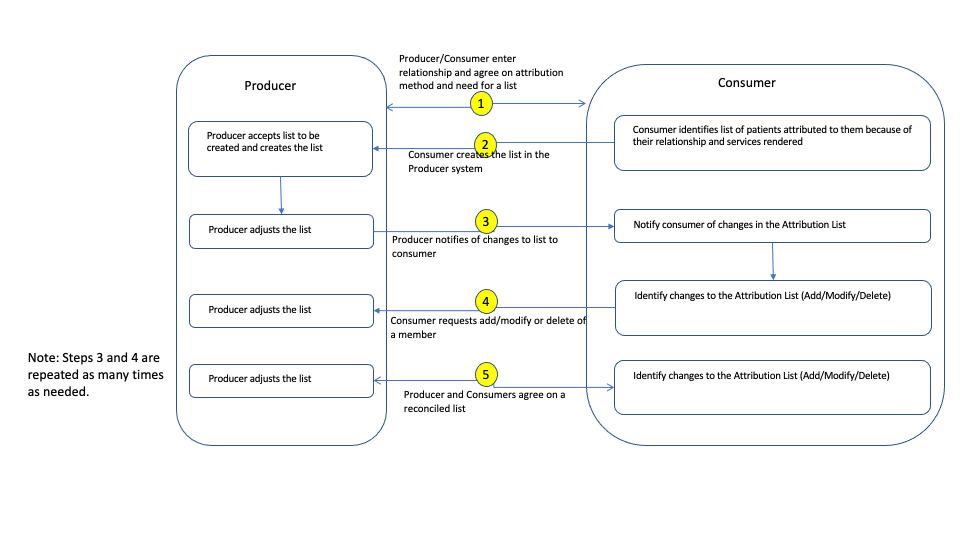
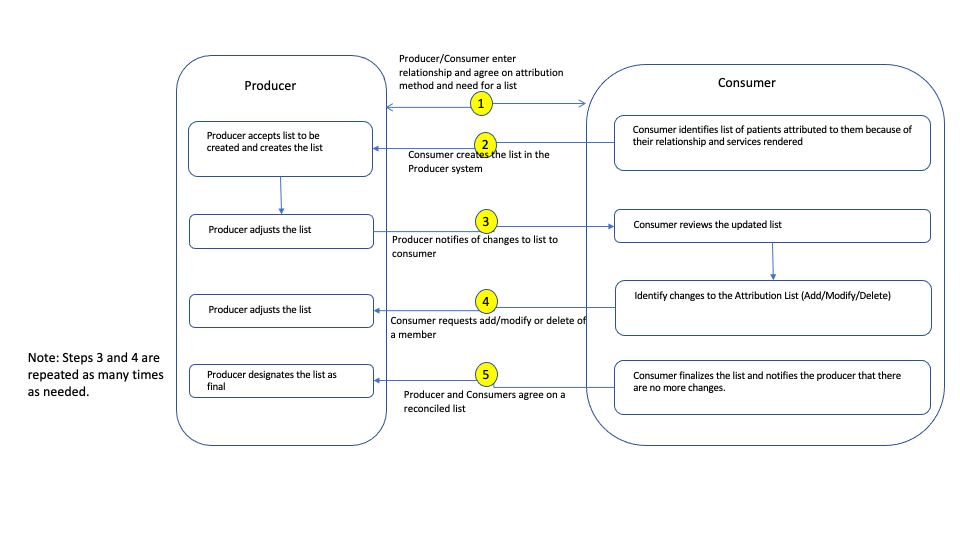
Updates for #40213, #40129, #40127, #39935, #39934, #39921

Changed region(s): [[0.6562, 0.3852, 0.875, 0.4444], [0.6562, 0.6815, 0.9375, 0.7407], [0.2188, 0.6815, 0.3438, 0.7407]]

diff --git a/input/pagecontent/spec.md b/input/pagecontent/spec.md
@@ -72,7 +72,7 @@ Producer systems SHALL support the reading and searching of Group resources per 
 
 Producer systems SHALL support ```Group,Patient,Coverage,Practitioner,Organization``` as resource types for the ```[base]/Group/[id]/$davinci-data-export?resourceTypes``` parameter for the exportType of ```hl7.fhir.us.davinci-atr```. 
 
-Producer systems SHOULD support ```Group, Patient, Related Person, Practitioner, PractitionerRole, Location, Organization, Coverage, Group``` resource types for the ```[base]/Group/[id]/$davinci-data-export?resourceTypes``` parameter for the exportType of ```hl7.fhir.us.davinci-atr```. 
+Producer systems SHOULD support ```Related Person, PractitionerRole, Location``` resource types for the ```[base]/Group/[id]/$davinci-data-export?resourceTypes``` parameter for the exportType of ```hl7.fhir.us.davinci-atr```. 
 
 Producer systems SHALL reject requests that do not contain the minimum resource types of ```Group,Patient,Coverage,Practitioner,Organization``` as resource types for the ```[base]/Group/[id]/$davinci-data-export?resourceTypes``` parameter for the exportType of ```hl7.fhir.us.davinci-atr```.
 
@@ -205,7 +205,7 @@ The section outlines specific requirements that need to be followed in creating 
 
 * Producers SHOULD exchange Provider NPI and TIN only as needed and when the NPIs and TINs belong to providers associated with the receiving organization.
 
-* Consumers SHOULD NOT be sharing the NPI and TIN information amongst providers unless required for PTO.
+* Consumers SHOULD NOT be sharing the NPI and TIN information amongst providers unless required for transactions related to Payments, Treatment and Operations (PTO).
 
 
 ### Member Attribution List Exchange Interactions Details and APIs

diff --git a/input/pagecontent/OperationDefinition-attribution-status-intro.md b/input/pagecontent/OperationDefinition-attribution-status-intro.md
@@ -1,0 +1,15 @@
+
+### Introduction
+
+This operation is used to retrieve the attribution status fr a specific member. 
+This allows the consumer (client) to retrieve member attribution status as part of work flows.
+
+
+**Implementation Details**
+
+The client (consumer) can pass a memberId or a memberReference which is a Reference to the patient resource in the Producer's system when querying for the attribution data. The Producer is supposed to return the attribution data for the individual member in a Bundle as part of the return value from the operation. If the member is not part of the Group or the client does not have appropriate privileges to query the Group, then an appropriate OperationOutcome would need to be returned. 
+
+**APIs : Member Add :**
+
+POST [Base FHIR Url]/Group/[id]/$attribution-status
+

diff --git a/input/pagecontent/background.md b/input/pagecontent/background.md
@@ -44,7 +44,7 @@ This implementation guide supports [FHIR R4]({{site.data.fhir.path}}index.html) 
 #### Data Model
 This section maps the Member Attribution List data to FHIR resources to introduce resources that will be used in the implementation guide. 
 
-{% include img.html img="maldata.svg" caption="Figure 1: Member Attribution List Data Model" %}
+{% include img.html img="maldata.png" caption="Figure 1: Member Attribution List Data Model" %}
 
 Implementers should familiarize themselves with the FHIR resources used within the guide based on the above data model.
 
